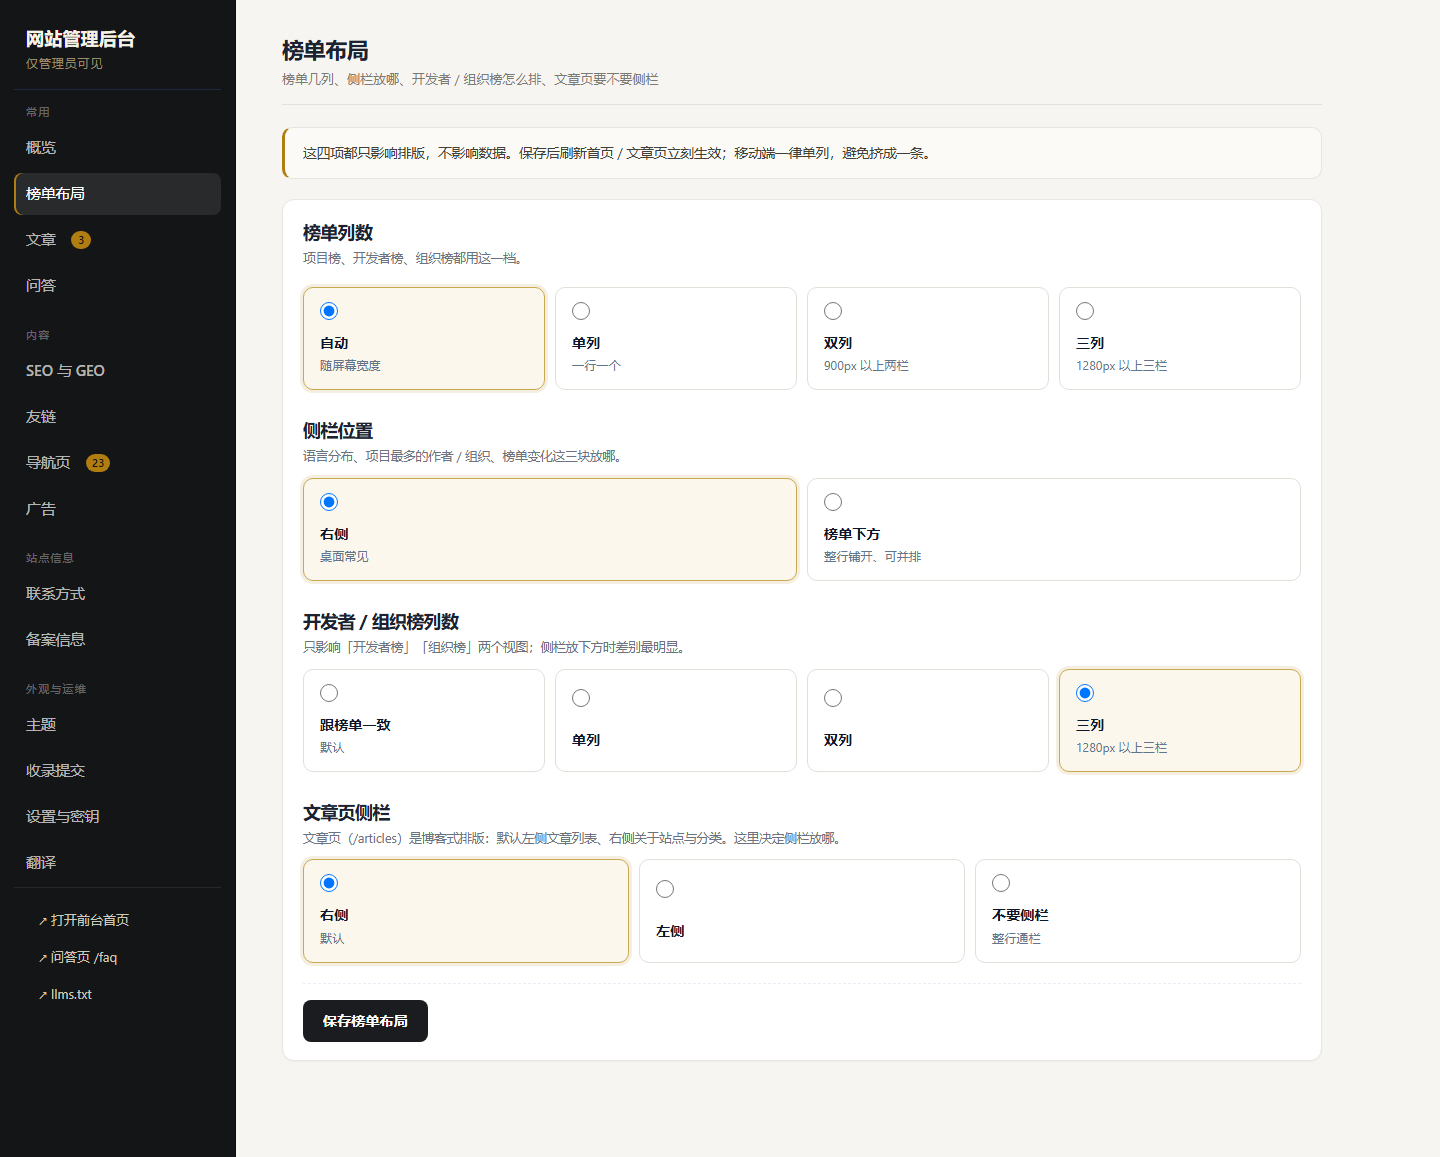
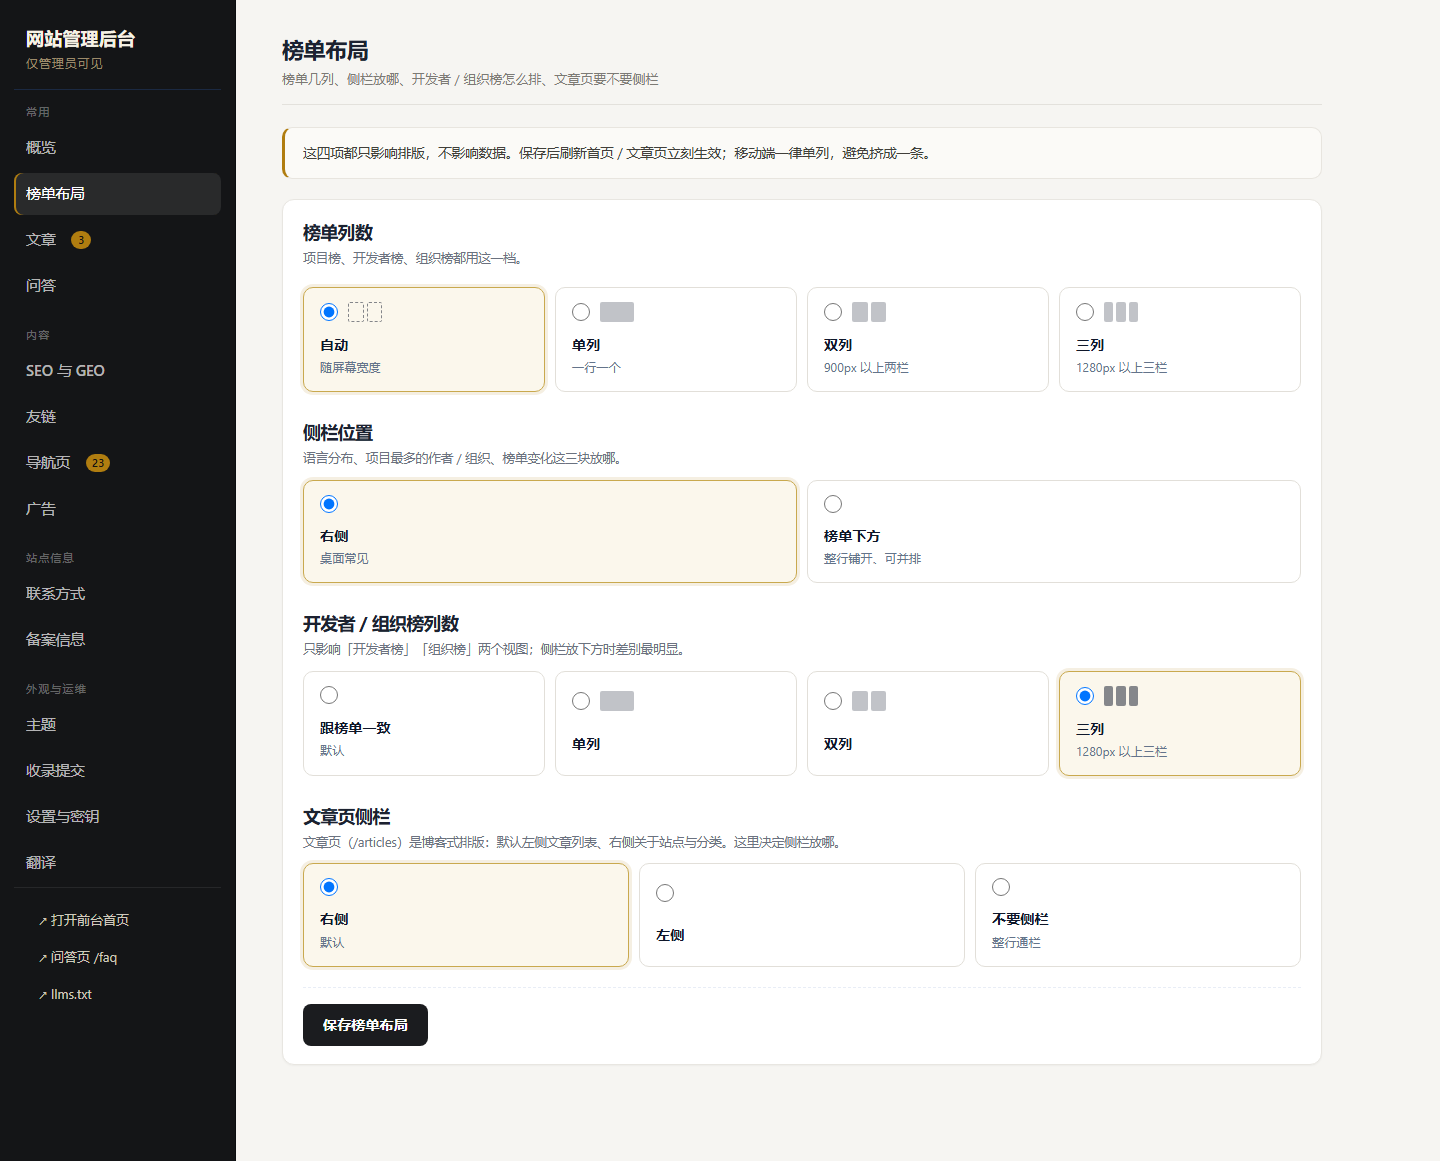
feat: 榜单布局选项加列数示意图；v93

diff --git a/worker.js b/worker.js
@@ -1431,7 +1431,7 @@ async function injectFaqLd(env, html) {
 
 // 静态资源版本：HTML 里的 /js/*.js 都会被加上 ?v=<这里>，于是能给浏览器一年 immutable；
 // 改了前端就把它 +1（不然用户浏览器会抱着一周的旧 bundle，界面上去点了没反应）
-const ASSET_V = 'v92';
+const ASSET_V = 'v93';
 
 function emptyNav() {
   return { updatedAt: '', groups: [] };
@@ -3129,6 +3129,10 @@ th{color:var(--muted);font-weight:600;font-size:13px}
 .choice .sw{display:inline-flex;gap:4px;margin-right:10px;vertical-align:middle;flex:none}
 .choice .sw i{width:15px;height:15px;border-radius:5px;display:block;border:1px solid rgba(0,0,0,.08)}
 .choice-t{display:flex;flex-direction:column;font-size:14px;flex:1 1 100%;margin-top:2px}
+.lp{display:flex;gap:3px;width:34px;height:20px;align-items:stretch;flex:none}
+.lp i{flex:1;min-width:0;border-radius:2px;background:currentColor;opacity:.26}
+.lp-hint i{border:1px dashed currentColor;background:transparent;opacity:.5}
+.choice:has(input:checked) .lp i{opacity:.5}
 .choice-t b{font-weight:400;font-size:12px;color:var(--muted);margin-top:2px}
 /* ---- 状态清单 / 键值 ---- */
 .status-list{display:grid;gap:8px;margin-top:8px}
@@ -3684,10 +3688,10 @@ tr:hover td{background:#fcfbf8}
         <div class="card">
           <div class="card-head"><div><h2>榜单列数</h2><p class="desc">项目榜、开发者榜、组织榜都用这一档。</p></div></div>
           <div class="choice-grid">
-            <label class="choice"><input type="radio" name="layout-mode" value="auto"><span class="choice-t">自动<b>随屏幕宽度</b></span></label>
-            <label class="choice"><input type="radio" name="layout-mode" value="single"><span class="choice-t">单列<b>一行一个</b></span></label>
-            <label class="choice"><input type="radio" name="layout-mode" value="double"><span class="choice-t">双列<b>900px 以上两栏</b></span></label>
-            <label class="choice"><input type="radio" name="layout-mode" value="triple"><span class="choice-t">三列<b>1280px 以上三栏</b></span></label>
+            <label class="choice"><input type="radio" name="layout-mode" value="auto"><span class="lp lp-hint"><i></i><i></i></span><span class="choice-t">自动<b>随屏幕宽度</b></span></label>
+            <label class="choice"><input type="radio" name="layout-mode" value="single"><span class="lp lp1"><i></i></span><span class="choice-t">单列<b>一行一个</b></span></label>
+            <label class="choice"><input type="radio" name="layout-mode" value="double"><span class="lp lp2"><i></i><i></i></span><span class="choice-t">双列<b>900px 以上两栏</b></span></label>
+            <label class="choice"><input type="radio" name="layout-mode" value="triple"><span class="lp lp3"><i></i><i></i><i></i></span><span class="choice-t">三列<b>1280px 以上三栏</b></span></label>
           </div>
           <h2 style="margin-top:26px">侧栏位置</h2>
           <p class="desc">语言分布、项目最多的作者 / 组织、榜单变化这三块放哪。</p>
@@ -3699,9 +3703,9 @@ tr:hover td{background:#fcfbf8}
           <p class="desc">只影响「开发者榜」「组织榜」两个视图；侧栏放下方时差别最明显。</p>
           <div class="choice-grid">
             <label class="choice"><input type="radio" name="layout-users" value="auto"><span class="choice-t">跟榜单一致<b>默认</b></span></label>
-            <label class="choice"><input type="radio" name="layout-users" value="single"><span class="choice-t">单列</span></label>
-            <label class="choice"><input type="radio" name="layout-users" value="double"><span class="choice-t">双列</span></label>
-            <label class="choice"><input type="radio" name="layout-users" value="triple"><span class="choice-t">三列<b>1280px 以上三栏</b></span></label>
+            <label class="choice"><input type="radio" name="layout-users" value="single"><span class="lp lp1"><i></i></span><span class="choice-t">单列</span></label>
+            <label class="choice"><input type="radio" name="layout-users" value="double"><span class="lp lp2"><i></i><i></i></span><span class="choice-t">双列</span></label>
+            <label class="choice"><input type="radio" name="layout-users" value="triple"><span class="lp lp3"><i></i><i></i><i></i></span><span class="choice-t">三列<b>1280px 以上三栏</b></span></label>
           </div>
           <h2 style="margin-top:26px">文章页侧栏</h2>
           <p class="desc">文章页（/articles）是博客式排版：默认左侧文章列表、右侧关于站点与分类。这里决定侧栏放哪。</p>

diff --git a/sw.js b/sw.js
@@ -1,5 +1,5 @@
 /* Service Worker：缓存页面外壳（HTML/JS/图标），让离线也能打开；GitHub API 不缓存，由页面自己的 localStorage 管理 */
-const CACHE = 'ghrank-shell-v92';
+const CACHE = 'ghrank-shell-v93';
 const SHELL = ['./', 'index.html', 'js/bundle.js', 'js/md.js', 'manifest.json', 'icon.svg'];
 // 只预缓存 meta（约 2KB）。榜单数据按 range 分文件、由页面按需加载，不再在安装时白下几�?KB
 const DATA = 'data/repos-meta.js';

diff --git a/docs/优化建议.md b/docs/优化建议.md
@@ -1016,3 +1016,16 @@ CDP 登录后台，逐个点开 13 个面板（overview/layout/articles/nav/qa/s
 
 ### 说明
 - 胶囊在搜索过滤后重建（`jump` 与 `html` 同一次循环生成），所以不会出现「点了一个空分组」的情况。
+
+## 63. 第 38 轮：榜单布局选项加直观示意图
+
+### 做了什么
+- 「榜单布局」里四档列数（自动 / 单列 / 双列 / 三列）、开发者榜三档列数，每个选项左侧新增 **小示意图**：几列就画几根竖条，`自动` 用虚线双条表示「随屏幕变」，被选中的卡片里竖条颜色加深。
+- `lp` 系列 CSS 只用 `currentColor` + `opacity`，深色/浅色主题都自动跟随，不用另配颜色。
+
+### 验证
+- 截图 `docs/shots/admin-layout.png`（1440×1161）：自动=虚线两条、单列=1、双列=2、三列=3；选中项（自动 / 右侧 / 三列 / 右侧）竖条明显更深。
+- `node --check worker.js`、`check-admin-script`、`check-admin-refs`、`check-pane-wiring` 全过。
+
+### 说明
+- 用 `:has(input:checked)` 让「选中的卡片」加深，Safari 15.4+/Chrome 105+ 都支持；不支持时只是颜色不变深，不影响功能。
